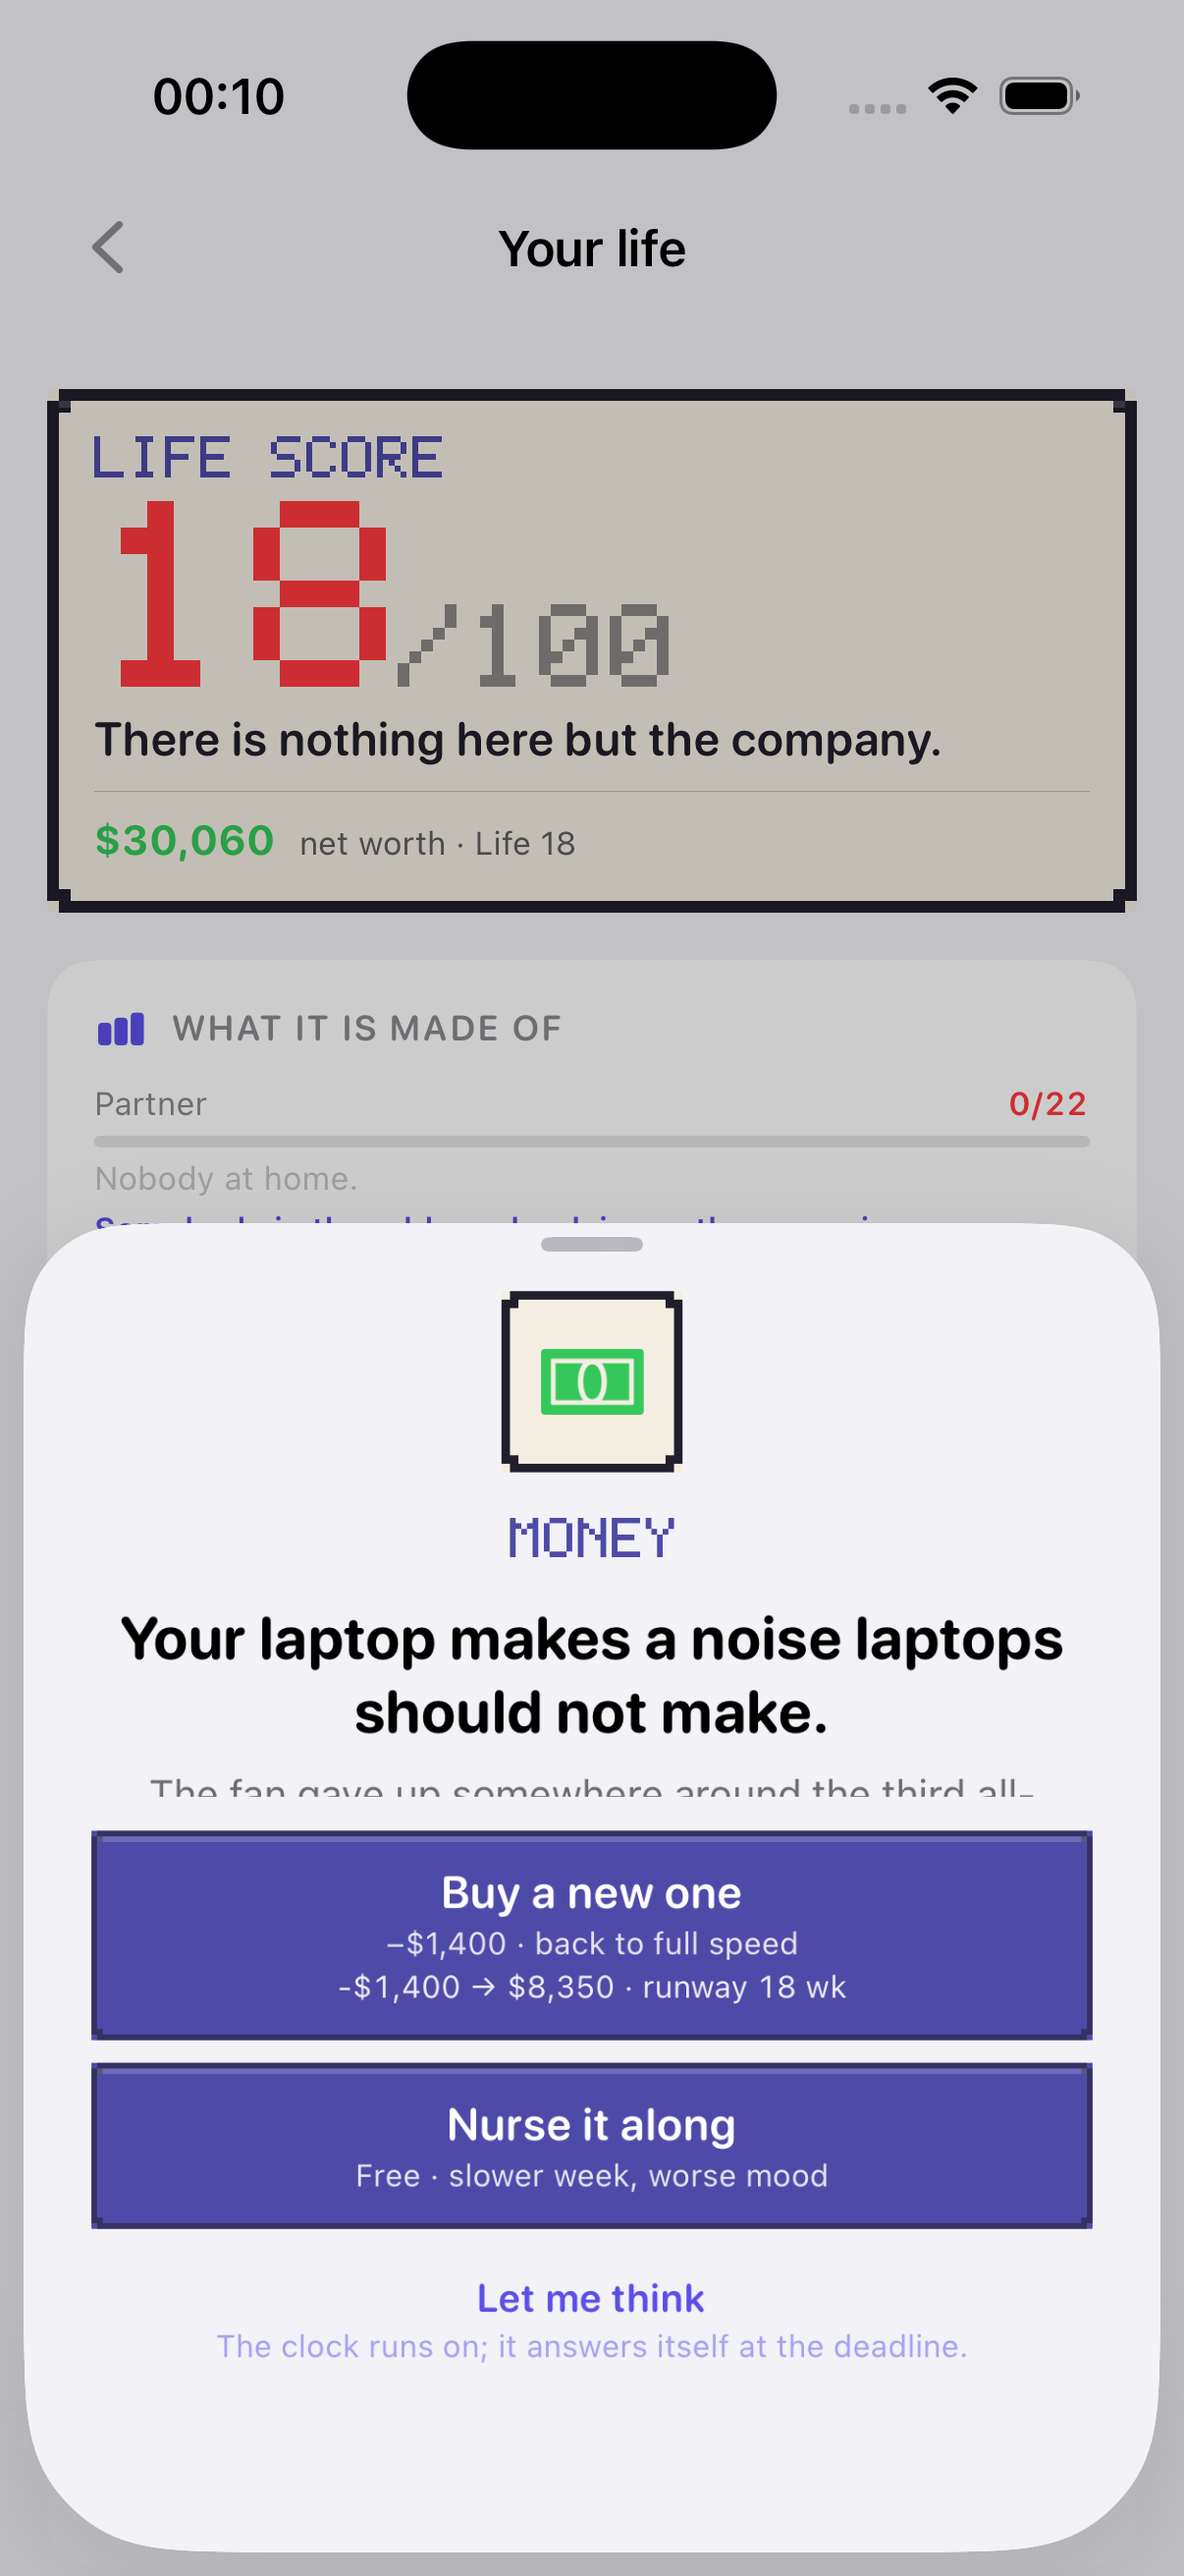
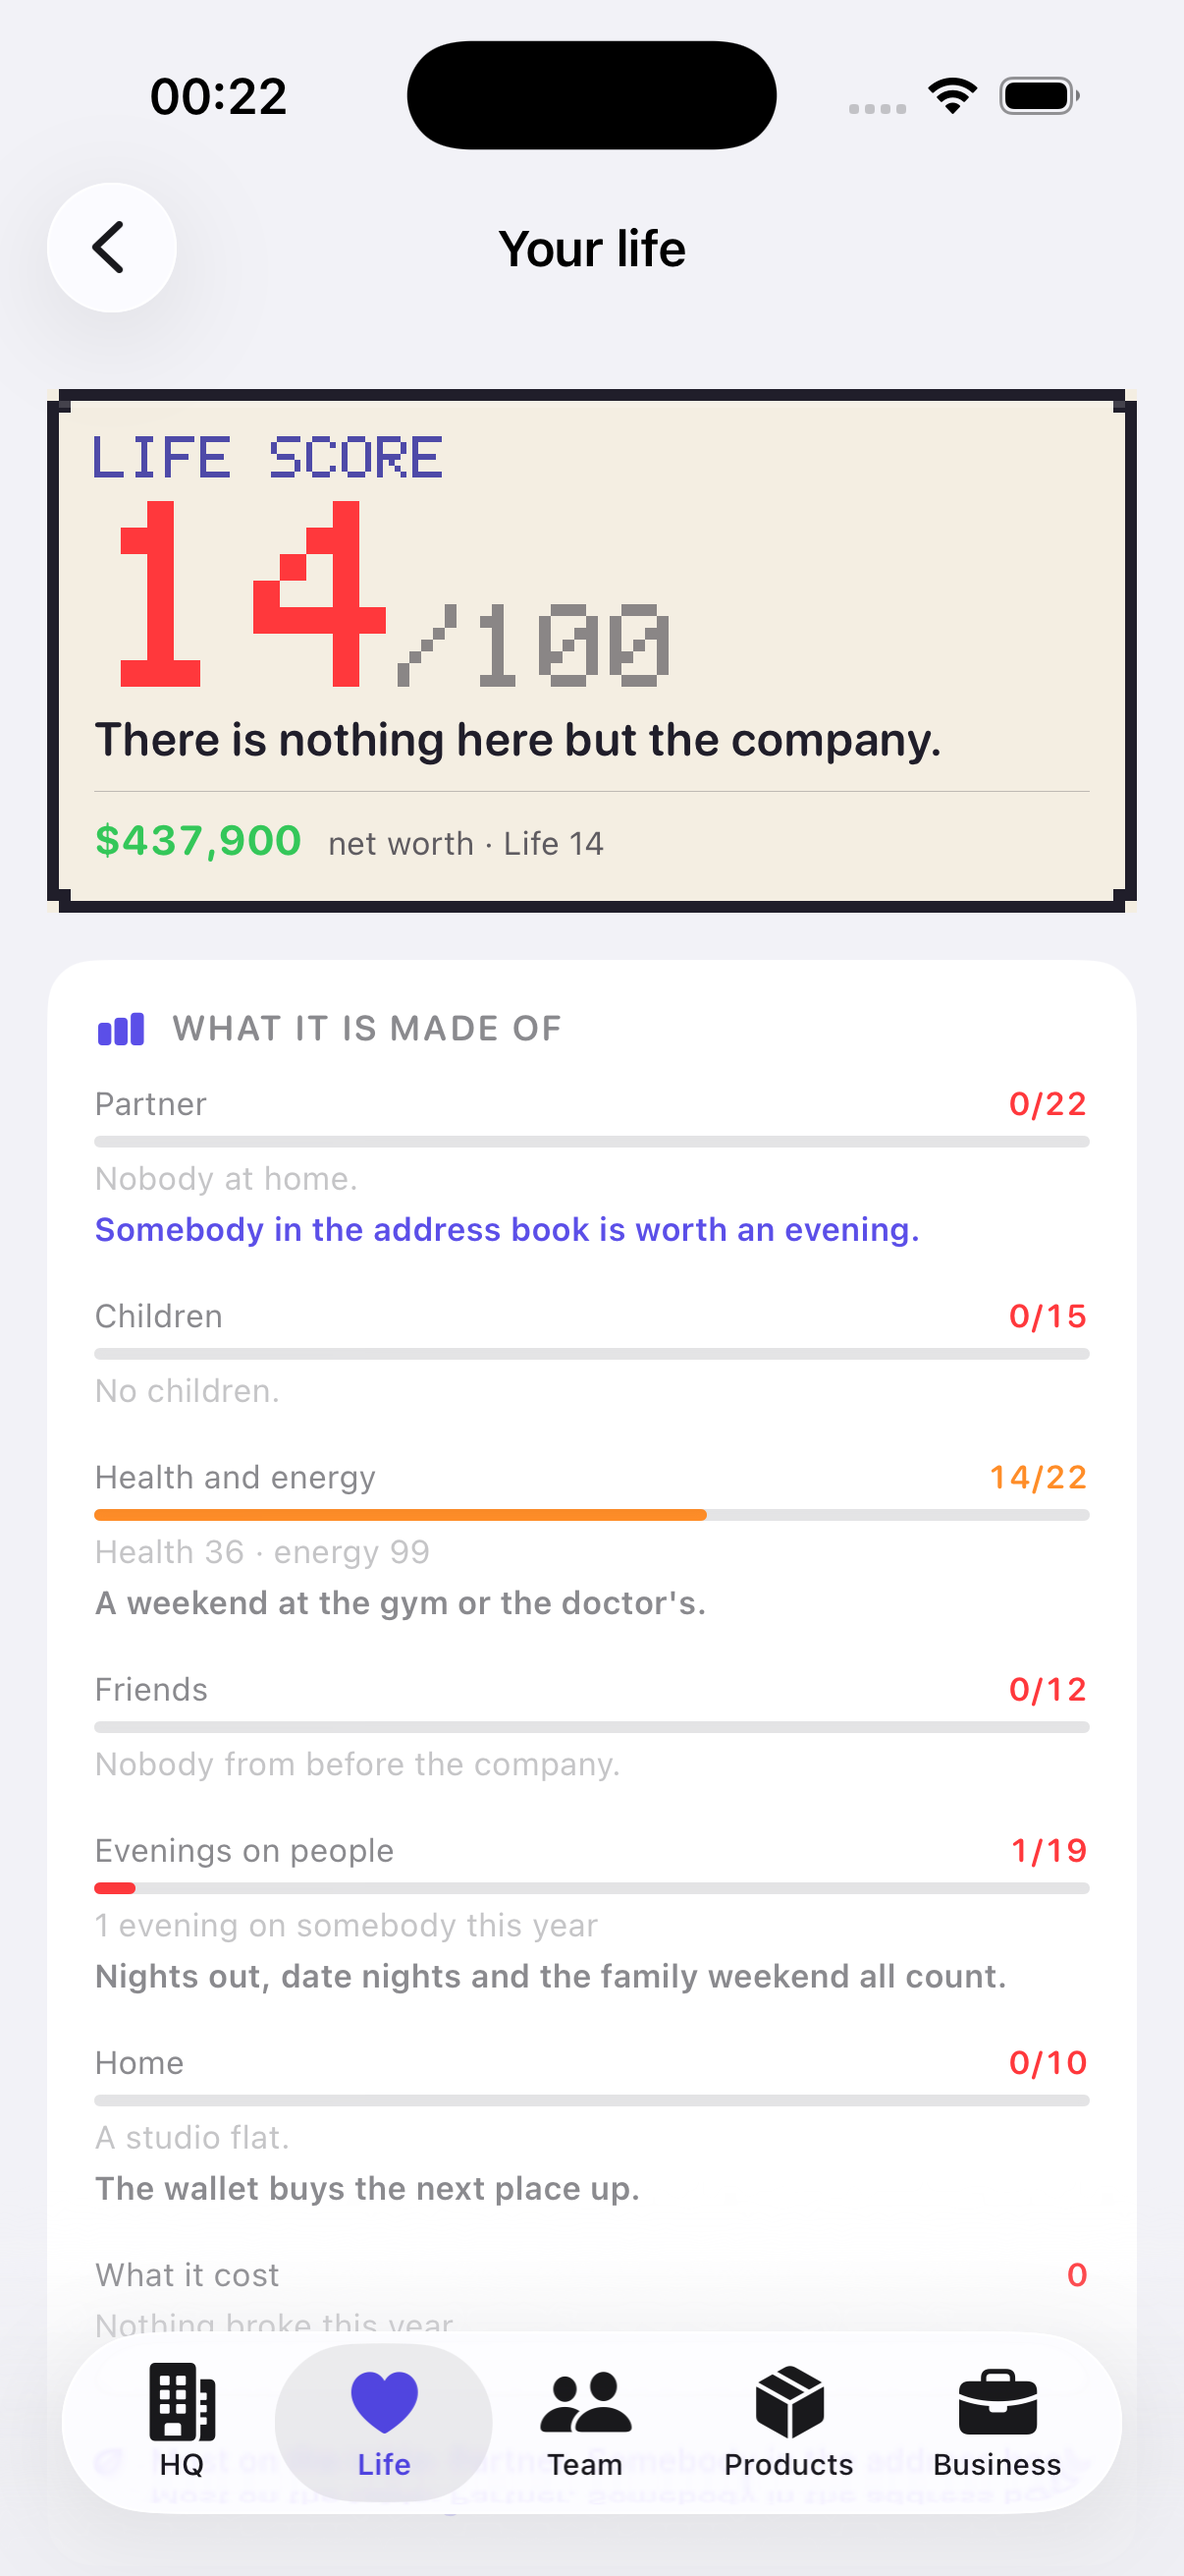
docs: L2's lane report, screenshots, and the weeks-not-years gate copy
The walk-away gate's default is 546 days, and integer years render that
as "1 years in (day 905 of 546)". Both the gate row and the refusal now
count in weeks, which is what the rest of the game counts in.

Claude-Session: https://claude.ai/code/session_019saPhvBEiFEDNnaWZsKGr9

diff --git a/App/Sources/Screens/Life/LifeScore/LifeScoreScreen.swift b/App/Sources/Screens/Life/LifeScore/LifeScoreScreen.swift
@@ -63,9 +63,9 @@ struct WalkAwayTerms: Equatable {
 
     var ready: Bool { blocker == nil }
 
-    /// A game year is 52 weeks of 7 days, the way the rest of the app
-    /// counts one.
-    var minYears: Int { max(1, minDay / (GameState.daysPerWeek * 52)) }
+    /// The gate in weeks, not years: the default is a year and a half,
+    /// and "1 years in" is what integer division does to that.
+    var minWeeks: Int { max(1, minDay / GameState.daysPerWeek) }
 }
 
 /// The screen's content without the scroll view, so it can be rendered
@@ -173,7 +173,7 @@ struct LifeScoreContent: View {
 
                 VStack(alignment: .leading, spacing: 2) {
                     gateRow(
-                        "\(walkAway.minYears) years in (day \(walkAway.day) of \(walkAway.minDay))",
+                        "\(walkAway.minWeeks) weeks in (day \(walkAway.day) of \(walkAway.minDay))",
                         met: walkAway.day >= walkAway.minDay
                     )
                     gateRow("No debt, nothing overdrawn", met: walkAway.debtFree)

diff --git a/Packages/TycoonEngine/Sources/TycoonEngine/LifeScore.swift b/Packages/TycoonEngine/Sources/TycoonEngine/LifeScore.swift
@@ -330,9 +330,11 @@ extension GameState {
         if gameOver != nil { return "This company already had its ending." }
         if let epilogue { return "This company had its ending on day \(epilogue.day)." }
         if day < config.walkAwayMinDay {
-            let years = Swift.max(1, config.walkAwayMinDay / Self.daysPerYear)
-            return "Too soon. Walking out before \(years) year"
-                + (years == 1 ? "" : "s") + " in is quitting, not leaving."
+            // Weeks, not years: the default gate is a year and a half,
+            // and integer division would call that "1 year".
+            let weeks = Swift.max(1, (config.walkAwayMinDay - day) / Self.daysPerWeek)
+            return "Too soon. \(weeks) more week" + (weeks == 1 ? "" : "s")
+                + " — walking out this early is quitting, not leaving."
         }
         if company.cash < 0 || loanBalance > 0 {
             return loanBalance > 0

diff --git a/docs/product/iteration-9-lanes/l2.md b/docs/product/iteration-9-lanes/l2.md
@@ -89,7 +89,7 @@ just not an evening spent on anybody.
 
 | Gate | Default |
 |---|---|
-| Days in | `walkAwayMinDay = 546` (a year and a half; the copy says "years in") |
+| Days in | `walkAwayMinDay = 546` — a year and a half. The copy counts in **weeks** (78, and "N more weeks" in the refusal): the game's year is 364 days, so integer years would render 546 as "1 year" |
 | No debt | `company.cash >= 0 && loanBalance <= 0` |
 | No board | `!investors.hasBoard` (a bought-out round is not seated, so buying the board out opens it) |
 | Somebody to hand it to | `headcount > 1` |
@@ -179,24 +179,55 @@ Each edit is inside a `// MARK: Iteration 9 — L2` region I added.
 | The mapping test's `ranking` filter | drops `lb.tenure_days` | drops `lb.tenure_days` **and** the life board, which is asserted present iff `ranked` |
 | `testTheTenureBoardSkipsAFounderWhoNeverHiredAnyone` | default (ranked) mode | `state.mode = .custom`, so the test still asks only what it asked — no *tenure* posted |
 
+`App/Tests/StartupStudioTests/StringsAuditTests.swift`:
+
+| What | Old | New |
+|---|---|---|
+| `pixelTextLiteralBaseline` | 46 | 47 |
+
+One new bare `PixelText(text: "…")` literal, `"/100"` beside the figure —
+a glyph, which the test's own doc comment exempts. The screen's two words
+("LIFE SCORE") and the biography card's one ("LIFE") went through
+`String(localized:comment:)` instead and are not counted.
+
+**I did not re-sync `Localizable.xcstrings`.** `make strings` picks up a
+backlog of ~150 unsynced iteration-8 keys along with my two, which would
+be a 300-line diff in a file every other lane also touches. The catalog
+tests only check a 300-key floor and five named legacy keys, so the suite
+is green without it. **The PM should run `make strings` once after the
+last lane merges** and commit the result.
+
 No new tests, no new test functions, no new files under any `Tests/`.
 
 ## Suites
 
 ```
-TycoonEngine   ✔ Test run with 943 tests in 135 suites passed after 147.334 seconds.
+TycoonEngine   ✔ Test run with 943 tests in 135 suites passed after 124.819 seconds.
 TycoonContent  ✔ Test run with 52 tests in 7 suites passed after 0.117 seconds.
 TycoonSave     ✔ Test run with 34 tests in 4 suites passed after 0.024 seconds.
 PixelKit       ✔ Test run with 336 tests in 32 suites passed after 17.487 seconds.
-App            APPTEST_LINE
+App            Executed 385 tests, with 0 failures (0 unexpected) in 27.810 (27.944) seconds   ** TEST SUCCEEDED **
 ```
 
 ## Screenshots
 
+All three from `ws-l2`, `-autoFixture release-campus-day900` unless said.
+
 - `docs/product/iteration-9-lanes/l2/lifescore-screen.png` — the pushed
-  screen, `-autoRoute lifescore`.
-- `docs/product/iteration-9-lanes/l2/lifescore-breakdown.png` — the
-  breakdown and the *Walking away* gates.
+  screen, `-autoRoute lifescore`: the figure on pixel paper, both numbers
+  on one line, and every component with its fact and its advice, the
+  biggest gap in accent.
+- `docs/product/iteration-9-lanes/l2/walk-away-gates.png` — the *Walking
+  away* card: six gate rows, four met, the button greyed with its numbers
+  still on it, and the refusal underneath ("There is still a board in the
+  room. Buy them out, or they decide this."). The card sits third on the
+  screen and a headless simulator cannot scroll, so this shot was taken
+  from a build with the three cards temporarily reordered; the order was
+  put back and the app rebuilt before the final test run.
+- `docs/product/iteration-9-lanes/l2/biography-life-card.png` — the
+  founder biography's *The rest of your life* card carrying the figure
+  and its verdict, from an auto-answered run that went bankrupt on day
+  329 with a life of 12.
 
 ## Follow-ups I need in files I do not own
 
